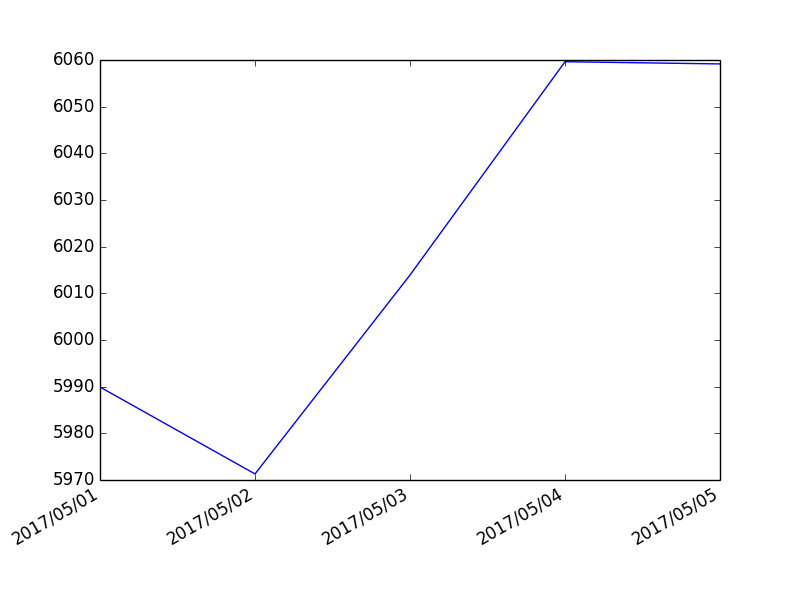
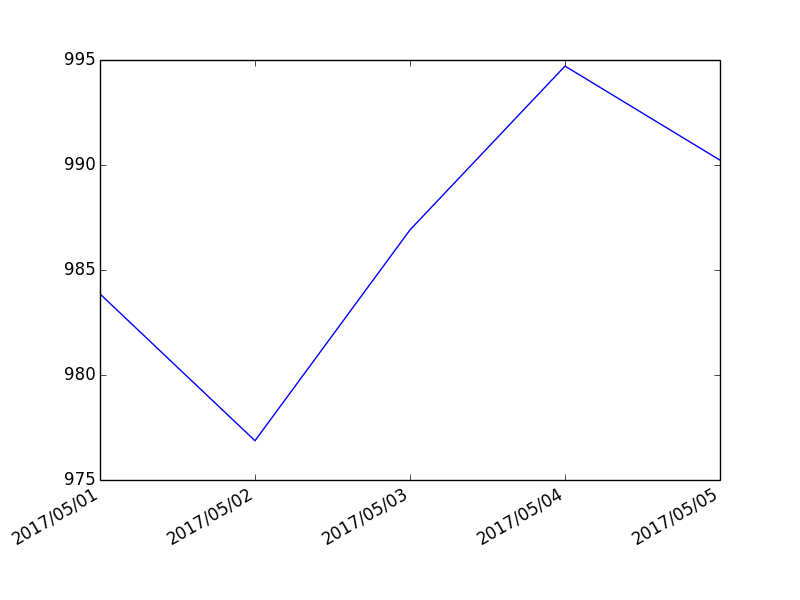
dual strategy done - errors in total

diff --git a/templates/index.html b/templates/index.html
@@ -102,10 +102,10 @@
                         $("#stock_image").attr("src", "static/stocks.png?"+d.getTime());  
                         $("#portfolio_image").attr("src", "static/portfolio.png?"+d.getTime());                        
                         
-                        json_data = JSON.parse(response);
-                        $("#stock_time").text(json_data.time);
-                        $("#stock_name").text(json_data.name);
-                        $("#stock_changes").text(json_data.change);
+                        //json_data = JSON.parse(response);
+                        //$("#stock_time").text(response.portfolio);
+                        //$("#stock_name").text(response.portfolio[1].name);
+                        //$("#stock_changes").text(response.portfolio[2].name);
                         
                     },
                     error: function(error) {

diff --git a/stock_bot.py b/stock_bot.py
@@ -23,6 +23,8 @@ uninvested_amount = 0
 is_stock_drawn = False
 global_stock_index = {}
 is_ratio_method_over = False
+older_portfolio = {}
+older_global_stock_index = {}
 
 def clear_everything():
 	global global_stock_index, portfolio, is_stock_drawn, is_ratio_method_over, uninvested_amount
@@ -84,7 +86,7 @@ def get_portfolio(amount, stock_type):
 		individual_peg = float(stock.get_price_earnings_growth_ratio())
 		if individual_peg == 0:
 			individual_peg = 1
-		internal_dictionary['peg'] = individual_peg
+		internal_dictionary['peg'] = abs(individual_peg)
 		internal_dictionary['name'] = stock.get_name()
 		#calculate sum here for later on
 		sum_peg += internal_dictionary['peg']
@@ -139,8 +141,9 @@ def get_portfolio(amount, stock_type):
 	return total_balance
 
 
-def execute(amount, strategy):
-	global portfolio, dictionary_strategies
+def execute(amount, strategy, ex):
+	global portfolio, dictionary_strategies, older_portfolio
+	global global_stock_index, older_global_stock_index
 	balance = amount
 
 	stock_type = dictionary_strategies[strategy]
@@ -159,7 +162,21 @@ def execute(amount, strategy):
 		# print "new balance =", balance
 
 	#plot five day historical data for new stocks
+	if ex == 'double_1':
+		print 'Round 1'
+		older_portfolio = {}
+		older_global_stock_index = {} 
+		older_portfolio = portfolio.copy()
+		older_global_stock_index = global_stock_index.copy()
+		print older_portfolio
+	elif ex == 'double_2':
+		print 'round 2'
+		portfolio = dict( portfolio.items() + older_portfolio.items() )
+		global_stock_index =  dict(older_global_stock_index.items() + global_stock_index.items())
+		print portfolio
+
 	generate_five_day()
+	
 	return portfolio
 	
 

diff --git a/server.py b/server.py
@@ -27,7 +27,7 @@ def runn():
 	sb.clear_everything()
 	
 	if not request.form['total_amount']:
-		abort(400, 'Enter a valid amount, greater than 500!')
+		abort(400, 'Enter a valid amount, greater than 5000!')
 
 	if request.form['strategy_1'] == 'None':
 		abort(400, 'Please choose atleast one valid strategy')
@@ -37,12 +37,12 @@ def runn():
 
 
 	if request.form['strategy_2'] == 'None':
-			portfolio = sb.execute(total_amount, strategy_1.lower())
+			portfolio = sb.execute(total_amount, strategy_1.lower(), ex='single')
 	else:
 		strategy_2 = request.form['strategy_2']
-		portfolio = sb.execute(total_amount/2, strategy_1.lower())
+		portfolio = sb.execute(total_amount/2, strategy_1.lower(), ex='double_1')
 		sb.clear_everything()
-		portfolio = sb.execute(total_amount/2, strategy_2.lower())
+		portfolio = sb.execute(total_amount/2, strategy_2.lower(), ex='double_2')
 
 
 	# ticker_symbol = request.form["stock_symbol"]
@@ -50,7 +50,7 @@ def runn():
 	web_response = {}
 	web_response['code'] = 0
 	web_response['portfolio'] = portfolio
-	json_values = json.dumps(web_response)
+	#json_values = json.dumps(web_response)
 	return jsonify(web_response)
  	
 if __name__ == "__main__":

diff --git a/todo.py b/todo.py
@@ -14,8 +14,8 @@ x9. plot each stocks and portfolio chart
 
 FRONT END INPUT:
 -----------
-1. dropdown lists for strategy picking
-2. text box for amount
+x1. dropdown lists for strategy picking
+x2. text box for amount
 3. portfolio values for multiple strategy
 
 FRONT END OUTPUT:
@@ -23,22 +23,23 @@ FRONT END OUTPUT:
 1. P elements with portfolio details:
 2. for each in stock:
 	amount spent - pie chart
-3. portfolio image itself
+x3. portfolio image itself
 
 BACKEND 
 -----------
-1. pass information back
-2. handle server.pys strategy split
+x1. pass information back
+x2. handle server.pys strategy split
 3. execute clean script as part of click (clear_Everything)
 
 ERROR CHECKS:
 -----------
 x1. for invalid strategy, 
 x1. invalid amount
-2. httperror in lookup.py while doing history
-3. empty input from html
-4. sometimes portfolio exceeds total amount
+x2. httperror in lookup.py while doing history
+x3. empty input from html
+4. sometimes portfolio exceeds total amount - for all except growth stocks
 5. FIX all in the bug list
+
 
 BUG LIST:
 -----------

diff --git a/lookup.py b/lookup.py
@@ -24,7 +24,9 @@ def draw_stock(stock):
 	try:
 		five_day_data = stock.get_historical(str(date_five_before), str(date_now))
 	except:
+		print 'Server error - Retrying'
 		return False
+
 	five_day_data = five_day_data[-5:]
 
 	list_dates = []
@@ -77,6 +79,7 @@ def draw_portfolio(portfolio):
 	plt.gcf().autofmt_xdate()
 
 	plt.savefig('static/portfolio.png')
+	plt.clf() 
 
 
 
